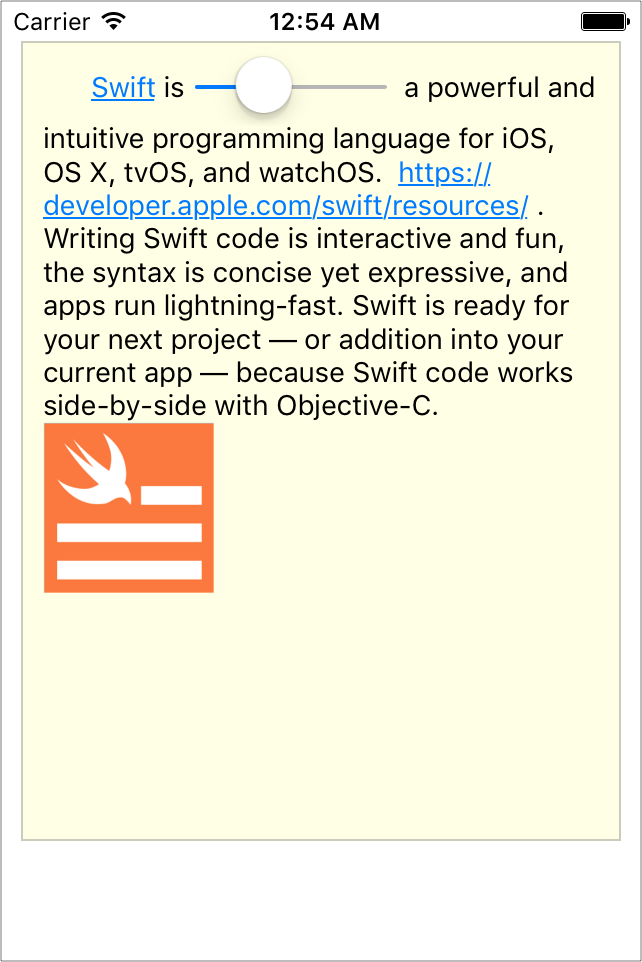
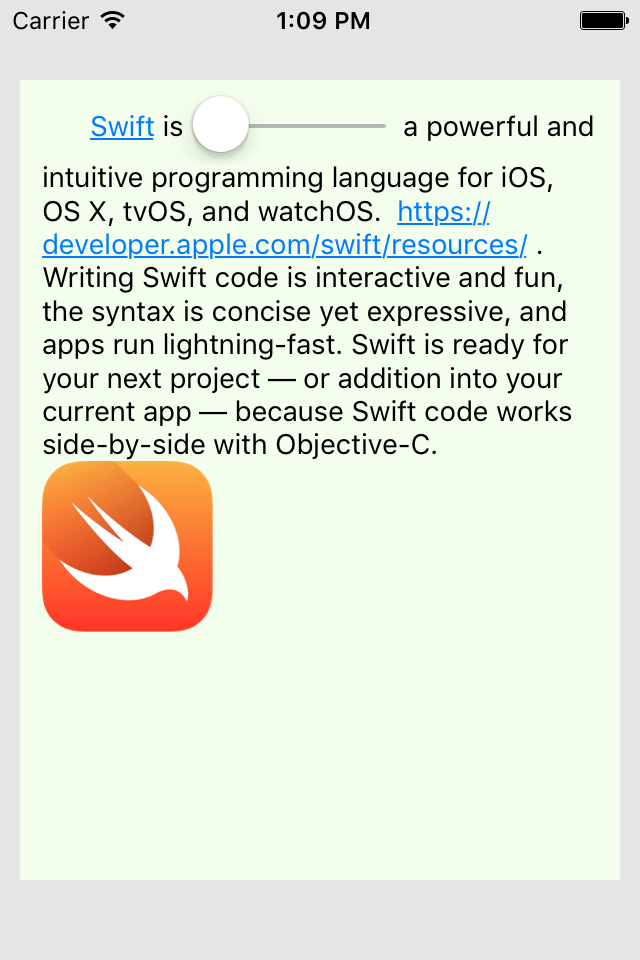
Update readme

diff --git a/SwiftyTextDemo/ViewController.swift b/SwiftyTextDemo/ViewController.swift
@@ -9,37 +9,35 @@
 import UIKit
 import SwiftyText
 
-class ViewController: UIViewController {
+class ViewController: UIViewController, SwiftyLabelDelegate {
 
     override func viewDidLoad() {
         super.viewDidLoad()
-        // Do any additional setup after loading the view, typically from a nib.
+        self.view.backgroundColor = UIColor(red: 229/255.0, green: 229/255.0, blue: 229/255.0, alpha: 1)
         
-        let label = SwiftyLabel(frame: CGRectMake(10, 20, 300, 400))
-        label.backgroundColor = UIColor.yellowColor().colorWithAlphaComponent(0.1)
-        label.layer.borderColor = UIColor.grayColor().colorWithAlphaComponent(0.4).CGColor
-        label.layer.borderWidth = 1.0
+        let label = SwiftyLabel(frame: CGRectMake(0, 0, 300, 400))
+        label.center = self.view.center
+        label.delegate = self
+        label.backgroundColor = UIColor(red: 243/255.0, green: 1, blue: 236/255.0, alpha: 1)
         label.text = "Swift is a powerful and intuitive programming language for iOS, OS X, tvOS, and watchOS.  https://developer.apple.com/swift/resources/ . Writing Swift code is interactive and fun, the syntax is concise yet expressive, and apps run lightning-fast. Swift is ready for your next project — or addition into your current app — because Swift code works side-by-side with Objective-C.  "
         label.textContainerInset = UIEdgeInsetsMake(6, 6, 6, 6)
         label.font = UIFont.systemFontOfSize(14)
         label.textColor = UIColor.blackColor()
-        label.lineBreakMode = .ByTruncatingHead
-        
         label.firstLineHeadIndent = 24
+        label.drawsTextAsynchronously = true
+
+        
+
         let link = SwiftyTextLink()
         link.URL = NSURL(string: "https://developer.apple.com/swift/")
         link.attributes = [NSForegroundColorAttributeName:UIColor(red: 0, green: 122/255.0, blue: 1.0, alpha: 1.0),NSUnderlineStyleAttributeName:NSUnderlineStyle.StyleSingle.rawValue]
         label.textStorage.setLink(link, range: NSMakeRange(0, 5))
         
         
-        label.drawsTextAsynchronously = true
-        
-        
-        let vv = UIView(frame: CGRectMake(0, 0, 40, 40))
-        vv.backgroundColor = UIColor.redColor()
+
         
         let imageAttachment = SwiftyTextAttachment()
-        imageAttachment.image = UIImage(named: "logo")
+        imageAttachment.image = UIImage(named: "swift")
         imageAttachment.attachmentTextVerticalAlignment = .Top
         label.textStorage.insertAttachment(imageAttachment, atIndex: label.textStorage.length)
         
@@ -62,7 +60,28 @@ class ViewController: UIViewController {
         super.didReceiveMemoryWarning()
         // Dispose of any resources that can be recreated.
     }
-
-
+    
+    
+    // MARK:- SwiftyLabelDelegate
+    func swiftyLabel(swiftyLabel: SwiftyLabel, didTapWithTextLink link: SwiftyTextLink, range: NSRange){
+        if let URL = link.URL {
+            let sheet = UIAlertController(title: "Link", message: URL.absoluteString , preferredStyle: .ActionSheet)
+            let cancelAction = UIAlertAction(title: "Cancel", style: .Cancel, handler: { (action) -> Void in
+                self.dismissViewControllerAnimated(true, completion: nil)
+            })
+            sheet.addAction(cancelAction)
+            
+            let openAction = UIAlertAction(title: "Open in Safari", style: .Default, handler: { (action) -> Void in
+                UIApplication.sharedApplication().openURL(URL)
+            })
+            sheet.addAction(openAction)
+            
+            self.presentViewController(sheet, animated: true, completion: nil)
+        }
+    }
+    
+    func swiftyLabel(swiftyLabel: SwiftyLabel, didLongPressWithTextLink link:SwiftyTextLink, range: NSRange){
+        
+    }
 }
 

diff --git a/SwiftyText/SwiftyLabel/SwiftyLabel.swift b/SwiftyText/SwiftyLabel/SwiftyLabel.swift
@@ -13,7 +13,7 @@ internal let SwiftyTextDetectorResultAttributeName: String = "SwiftyTextDetector
 
 public protocol SwiftyLabelDelegate: NSObjectProtocol {
     func swiftyLabel(swiftyLabel: SwiftyLabel, didTapWithTextLink link: SwiftyTextLink, range: NSRange)
-    func swiftyLabel(SwiftyLabel: SwiftyLabel, didLongPressWithTextLink link:SwiftyTextLink, range: NSRange)
+    func swiftyLabel(swiftyLabel: SwiftyLabel, didLongPressWithTextLink link:SwiftyTextLink, range: NSRange)
 }
 
 public class SwiftyLabel : UIView, NSLayoutManagerDelegate, UIGestureRecognizerDelegate {
@@ -260,7 +260,7 @@ public class SwiftyLabel : UIView, NSLayoutManagerDelegate, UIGestureRecognizerD
             self.setHighlight(false, withRange: self.touchRange!, textLink: self.touchLink!)
             switch gestureRecognizer.result {
             case .Tap:
-                self.delegate?.swiftyLabel(self, didLongPressWithTextLink: self.touchLink!, range: self.touchRange!)
+                self.delegate?.swiftyLabel(self, didTapWithTextLink: self.touchLink!, range: self.touchRange!)
                 break
             case .LongPress:
                 self.delegate?.swiftyLabel(self, didLongPressWithTextLink: self.touchLink!, range: self.touchRange!)

diff --git a/README.md b/README.md
@@ -37,15 +37,14 @@ Here gives an example of creating a SwiftyLabel：
 
 
 ```objc
-let label = SwiftyLabel(frame: CGRectMake(10, 20, 300, 400))
-label.backgroundColor = UIColor.yellowColor().colorWithAlphaComponent(0.1)
-label.layer.borderColor = UIColor.grayColor().colorWithAlphaComponent(0.4).CGColor
-label.layer.borderWidth = 1.0
+let label = SwiftyLabel(frame: CGRectMake(0, 0, 300, 400))
+label.center = self.view.center
+label.delegate = self
+label.backgroundColor = UIColor(red: 243/255.0, green: 1, blue: 236/255.0, alpha: 1)
 label.text = "Swift is a powerful and intuitive programming language for iOS, OS X, tvOS, and watchOS.  https://developer.apple.com/swift/resources/ . Writing Swift code is interactive and fun, the syntax is concise yet expressive, and apps run lightning-fast. Swift is ready for your next project — or addition into your current app — because Swift code works side-by-side with Objective-C.  "
 label.textContainerInset = UIEdgeInsetsMake(6, 6, 6, 6)
 label.font = UIFont.systemFontOfSize(14)
 label.textColor = UIColor.blackColor()
-label.lineBreakMode = .ByTruncatingHead
 label.firstLineHeadIndent = 24
 label.drawsTextAsynchronously = true
 ```
@@ -150,15 +149,14 @@ github "kejinlu/SwiftyText"
 
 
 ```objc
-let label = SwiftyLabel(frame: CGRectMake(10, 20, 300, 400))
-label.backgroundColor = UIColor.yellowColor().colorWithAlphaComponent(0.1)
-label.layer.borderColor = UIColor.grayColor().colorWithAlphaComponent(0.4).CGColor
-label.layer.borderWidth = 1.0
+let label = SwiftyLabel(frame: CGRectMake(0, 0, 300, 400))
+label.center = self.view.center
+label.delegate = self
+label.backgroundColor = UIColor(red: 243/255.0, green: 1, blue: 236/255.0, alpha: 1)
 label.text = "Swift is a powerful and intuitive programming language for iOS, OS X, tvOS, and watchOS.  https://developer.apple.com/swift/resources/ . Writing Swift code is interactive and fun, the syntax is concise yet expressive, and apps run lightning-fast. Swift is ready for your next project — or addition into your current app — because Swift code works side-by-side with Objective-C.  "
 label.textContainerInset = UIEdgeInsetsMake(6, 6, 6, 6)
 label.font = UIFont.systemFontOfSize(14)
 label.textColor = UIColor.blackColor()
-label.lineBreakMode = .ByTruncatingHead
 label.firstLineHeadIndent = 24
 label.drawsTextAsynchronously = true
 ```
